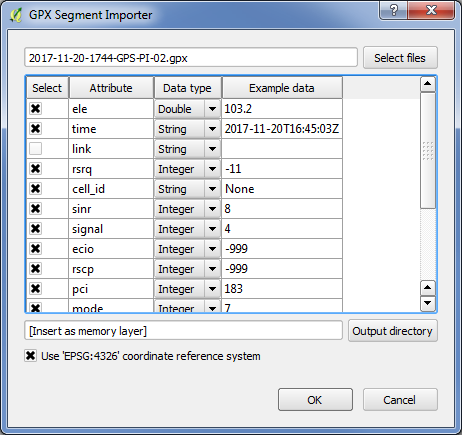
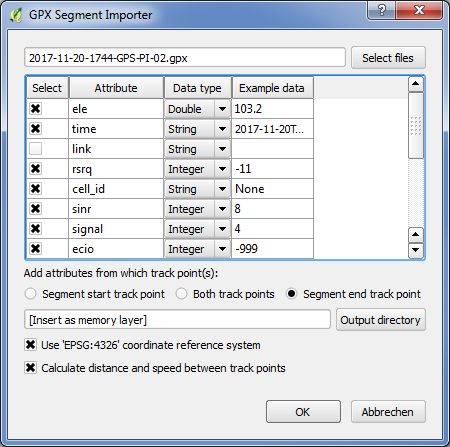
Release v1.2
Updated metadata and readme

Changed region(s): [[0.0, 0.0, 0.9956, 0.9862], [0.5911, 0.8667, 0.9956, 0.9862], [0.3733, 0.9862, 0.7156, 1.0]]

diff --git a/README.md b/README.md
@@ -11,9 +11,10 @@ The native GPS eXchange Format (GPX) file importer for the open-source geo-infor
 
 ## Features
 
-* Select one or multiple GPX files with the same data structure at once.
-* Read all attributes available with each track point. This includes the timestamp and the elevation as well as any other attributes added to a track point.
-* To gain full control over the data, you can edit the attribute table before creating the segment layer. The user can select the attributes that should be included in the layer, modify the attribute label and change the data type (integer, double or string) if the automatic type detection failed, e.g. at numeric data that contains “Null” or “None” values.
+* Select one or multiple GPX files with the same data structure at once and create short line segments between the track points.
+* Read all attributes available from each track point at the segment start and/or end. This includes the timestamp and the elevation as well as any other attributes added to a track point.
+* To gain full control over the data, you can edit the attribute table before creating the segment layer. The user can select the attributes that should be included in the layer, modify the attribute label and change the data type (integer, double, boolean or string) if the automatic type detection failed, e.g. at numeric data that contains “Null” or “None” values.
+* Optionally calculate distance and speed between track points.
 * The plugin detects attributes that do not have a value and deselects it. Values can still be selected manually.
 * Create a temporary memory layer or write the layer to a file (Shapefile in current version, future plans are to switch to GeoPackage).
 
